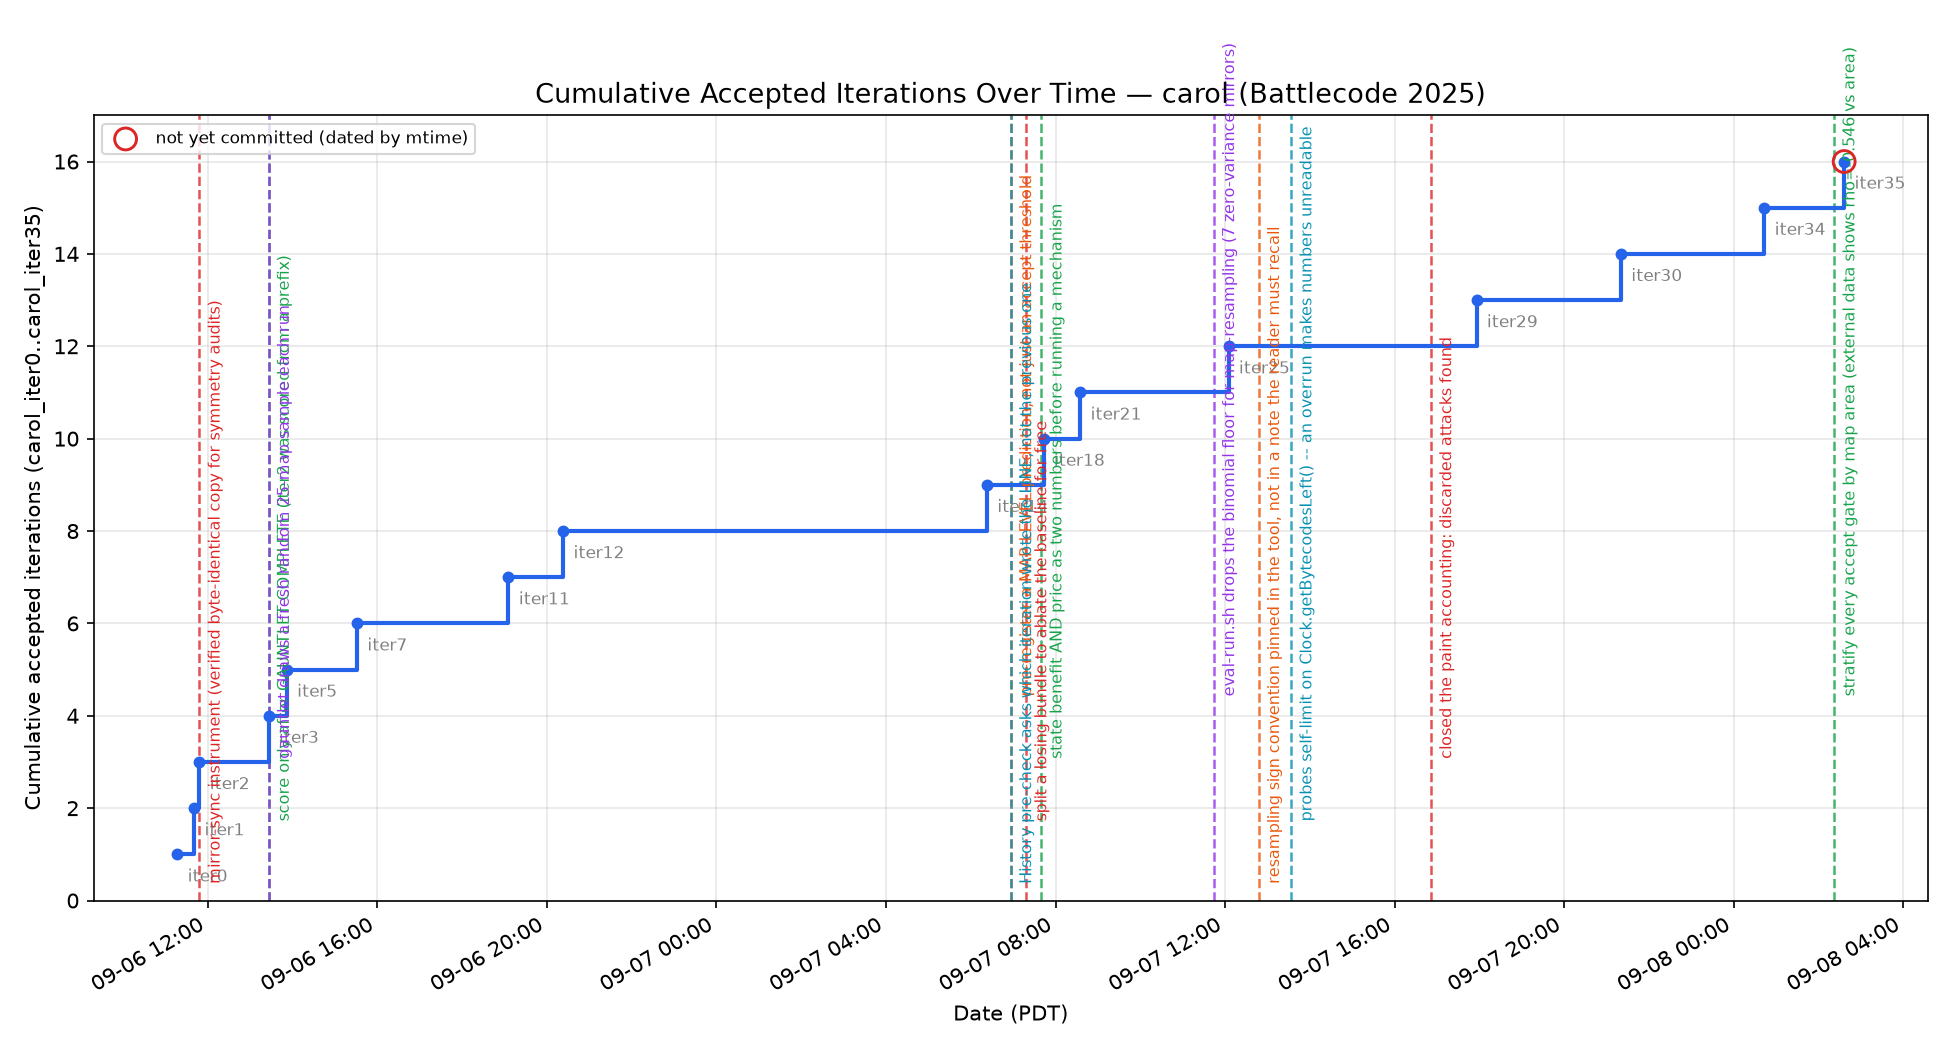
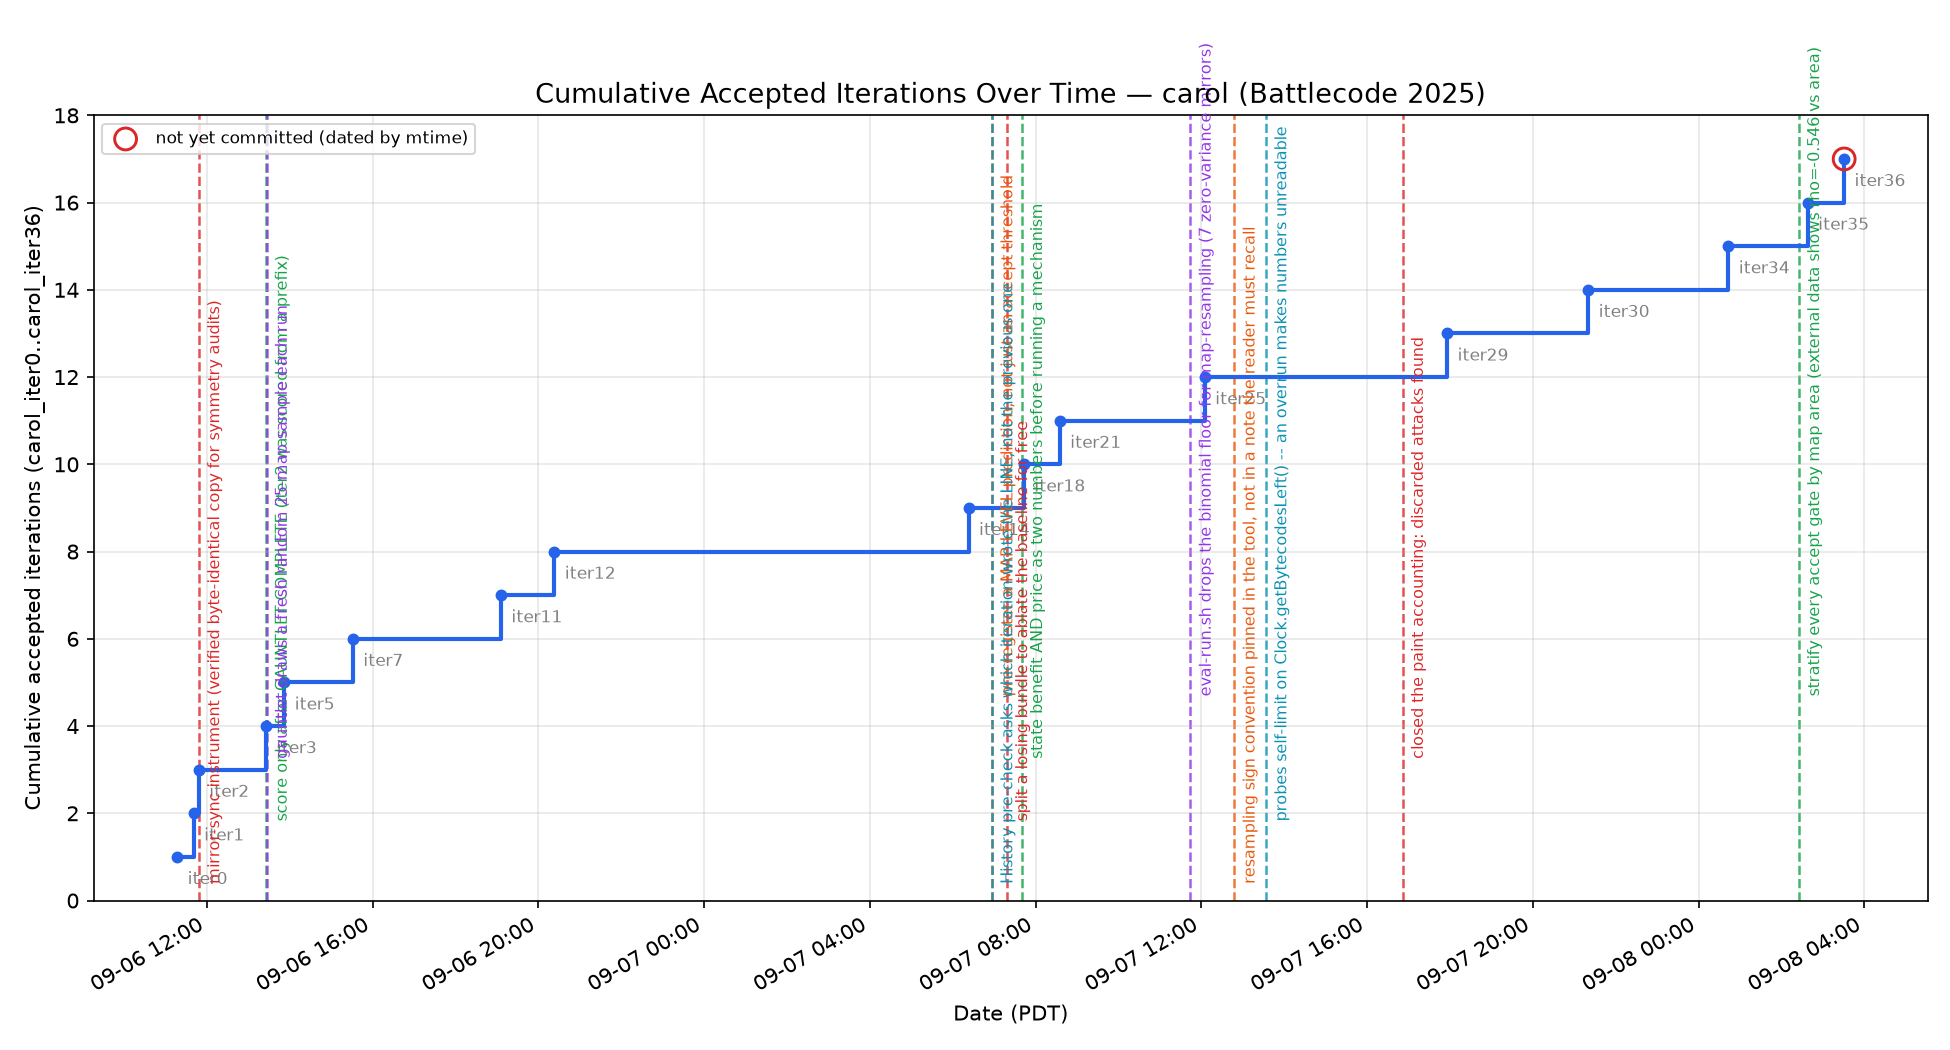
carol: ACCEPT iteration 36 -- the PAINT floor; 28/50, and the mopper share falls 12.8% -> 0.19%
Recovered verdict: gauntlet/20260908-094128 had completed and been collated before the
session died; only the accept/reject decision was lost. No games were re-run.

Pre-registered gates: 28/50 vs carol_iter35 (>25 required), swept 6-3, large-area half
57.7% (>=45% required). The headline margin is weak (one-sided p=0.24) and the accept
rests on the manipulation check, not the win rate.

Manipulation check, 22 paired loss replays (both bots are in the same game, so map and
round count are held fixed): candidate 5 moppers of 2,693 builds (0.19%) against the
incumbent's 367 of 2,860 (12.83%) -- a 69x cut, with 0 of 22 games where the candidate
built more. Soldier share +21.9pp overall, +25.8pp where the mechanism can fire.

Honest renaming: combined with iteration 30's still-active SPLASH_FLOOR=2000, this is
unit REMOVAL, not the re-prioritisation I advertised. Accepted as built, named correctly.

Covariate rho(wins, area) = +0.291, t=+1.46 -- right sign, NOT significant, and not
claimed as confirmation (iteration 34's rho was retracted for exactly this).

Two instrument findings:
- My accept gate had one fewer condition than it looked like. wins - N = SW - SL is an
  identity, so "swept wins >= swept losses" was implied by "wins > 25/50". Replaced with
  an absolute floor, swept wins >= 5 of 25, which constrains D and is independent. Checked
  before adopting: iteration 36 has SW=6 and still passes, so no past verdict moves.
[…]

diff --git a/agents/carol/carol-tools/mixcheck/aggregate.py b/agents/carol/carol-tools/mixcheck/aggregate.py
@@ -1,0 +1,48 @@
+#!/usr/bin/env python3
+"""Aggregate spawnmix.sh output into the iteration-36 manipulation check.
+
+Input lines: <replay> <name1> s m p <name2> s m p <twPaint1> <twPaint2>
+Both bots are in the SAME game, so every row is a PAIRED observation: same map,
+same round count, same opponent. Soldier SHARE (a ratio) is the pre-registered
+quantity precisely because counts scale with how well a bot is doing in that game
+and shares are far less sensitive to it.
+"""
+import sys, collections
+
+CAND = "carol_i36_200"
+rows = []
+for line in open(sys.argv[1]):
+    f = line.split()
+    if len(f) < 11: continue
+    rep, n1, s1, m1, p1, n2, s2, m2, p2, tp1, tp2 = f[0], f[1], *map(int, f[2:5]), f[5], *map(int, f[6:9]), int(f[9]), int(f[10])
+    a = (n1, s1, m1, p1, tp1); b = (n2, s2, m2, p2, tp2)
+    cand, inc = (a, b) if n1 == CAND else (b, a)
+    rows.append((rep.replace("carol_iter35__", "").replace(".bc25", ""), cand, inc))
+
+def share(r):
+    tot = r[1] + r[2] + r[3]
+    return (100.0 * r[1] / tot) if tot else None
+
+print(f"{'map/side':26} {'cand s/m/p':>16} {'sh%':>6} {'inc s/m/p':>16} {'sh%':>6} {'d(sh)':>7} {'incMop':>7}")
+ds, fired, inert = [], [], []
+for name, c, i in rows:
+    sc, si = share(c), share(i)
+    d = (sc - si) if (sc is not None and si is not None) else None
+    print(f"{name:26} {str(c[1])+'/'+str(c[2])+'/'+str(c[3]):>16} {sc if sc is None else round(sc,1):>6} "
+          f"{str(i[1])+'/'+str(i[2])+'/'+str(i[3]):>16} {si if si is None else round(si,1):>6} "
+          f"{d if d is None else round(d,1):>7} {i[2]:>7}")
+    if d is None: continue
+    ds.append(d)
+    (fired if i[2] >= 5 else inert).append(d)
+
+def summ(lab, xs):
+    if not xs: return
+    xs2 = sorted(xs)
+    med = xs2[len(xs2)//2] if len(xs2) % 2 else (xs2[len(xs2)//2-1]+xs2[len(xs2)//2])/2
+    pos = sum(1 for x in xs if x > 0)
+    print(f"{lab:38} n={len(xs):2d}  mean d(share)={sum(xs)/len(xs):+6.1f}pp  median={med:+6.1f}pp  positive {pos}/{len(xs)}")
+
+print()
+summ("ALL paired games", ds)
+summ("incumbent built >=5 moppers (fired)", fired)
+summ("incumbent built <5 moppers (inert)", inert)

diff --git a/agents/carol/src/carol_iter36/RobotPlayer.java b/agents/carol/src/carol_iter36/RobotPlayer.java
@@ -1,4 +1,4 @@
-package carol;
+package carol_iter36;
 
 import battlecode.common.*;
 

diff --git a/agents/carol/TRAINING_LOG.md b/agents/carol/TRAINING_LOG.md
@@ -9507,3 +9507,151 @@ proxy for it. If rho comes back flat, the honest reading is *"area is a poor pro
 starvation"*, **not** that the mechanism is absent — the manipulation check is what settles
 whether the mechanism fired. My last area prediction (iteration 35) failed at +0.009, so I am
 registering this one with lowered confidence and saying so in advance.
+
+### VERDICT — ACCEPT (recovered: the run finished, the verdict died with the session)
+
+Run `gauntlet/20260908-094128`, `BOT=carol_i36_200`, opponents `carol_iter35` and `carol_i36_100`,
+100 games on a fresh random 25-map sample. The run had completed and been collated before the
+session ended; only the accept/reject decision was lost. **No games were re-run.**
+
+| gate (pre-registered) | required | measured | |
+|---|---|---|---|
+| 1. `carol_i36_200` vs `carol_iter35` | > 25/50 | **28/50 (56%)** | pass |
+| 2. swept wins >= swept losses | >= | **6 vs 3** | pass *(but see below — this is not independent)* |
+| 3. large-area half win rate | >= 45% | **57.7%** (15/26 over 13 maps) | pass |
+
+vs `carol_i36_100`: 26/50. The 200 dose is ahead of the 100 dose, consistent with the ladder.
+
+**The headline margin is weak and I am not going to dress it up.** 28/50 has a one-sided binomial
+p = 0.24 — a coin flip clears this gate a quarter of the time. What carries this accept is the
+manipulation check, not the win rate.
+
+### Gate 2 was never independent evidence — an arithmetic error in my own gate
+
+The tournament report states the identity `wins - N = swept - swept_against` for an N-map,
+both-sides sample. Checked on this exact run: N=25, wins=28, SW=6, SL=3, split=16 →
+`2*6+16 = 28` wins and `2*3+16 = 22` losses, and `28-25 = 3 = 6-3`. Exact.
+
+So **gate 2 is algebraically implied by gate 1**: any result with wins > 25/50 has SW > SL
+necessarily. My "three-condition" accept gate has only ever been two conditions, and I have been
+reporting a margin and its sweep counts as two agreeing facts when they are one fact written twice.
+The report warns about precisely this and I encoded the error into the gate anyway.
+
+What the sweep counts *do* add is **D, the split count** — decisiveness, not direction. Here D=16
+of 25 maps, i.e. **64% of maps are coin-flips decided by spawn side**, which is the honest reason
+the headline margin is weak. Replacing gate 2 with a decisiveness condition is a process change,
+recorded in `progress/milestones.txt`.
+
+### Manipulation check — PASSES decisively, and this is what the accept rests on
+
+Both bots play in the same replay, so every game is a **paired** observation: same map, same
+round count, same opponent. Realized build mix is a direct count of `SPAWN` events
+(`carol-tools/mixcheck/`), not a rate reconstructed from post-turn robot state, so the
+"replay state is written AFTER the turn resolves" bias documented in `tools/engine-facts.md`
+does not touch it.
+
+| game (candidate loss) | cand s/m/p | cand sold% | inc s/m/p | inc sold% | d(sold%) |
+|---|---|---|---|---|---|
+| giver__botB | 13/0/46 | 22.0% | 154/105/35 | 52.4% | -30.3 |
+| SMILE__botA | 48/1/250 | 16.1% | 201/48/198 | 45.0% | -28.9 |
+| DefaultHuge__botB | 488/3/151 | 76.0% | 112/47/205 | 30.8% | +45.2 |
+| lighthouse__botA | 60/0/12 | 83.3% | 60/36/33 | 46.5% | +36.8 |
+| Brat__botA | 37/0/7 | 84.1% | 26/33/6 | 40.0% | +44.1 |
+| Snowman__botB | 39/0/6 | 86.7% | 25/23/9 | 43.9% | +42.8 |
+| Gears__botA | 63/0/23 | 73.3% | 40/22/47 | 36.7% | +36.6 |
+| Circuit__botA | 160/1/33 | 82.5% | 65/20/102 | 34.8% | +47.7 |
+| Snowman__botA | 21/0/8 | 72.4% | 17/16/6 | 43.6% | +28.8 |
+| Brat__botB | 22/0/6 | 78.6% | 9/6/17 | 28.1% | +50.4 |
+| starburst__botA | 15/0/9 | 62.5% | 17/5/11 | 51.5% | +11.0 |
+| giver__botA | 38/0/38 | 50.0% | 23/2/52 | 29.9% | +20.1 |
+| sierpinski__botB | 139/0/29 | 82.7% | 17/2/86 | 16.2% | +66.5 |
+| Thirds__botB | 10/0/135 | 6.9% | 9/1/133 | 6.3% | +0.6 |
+| windmill__botA | 9/0/4 | 69.2% | 3/1/11 | 20.0% | +49.2 |
+| Castle__botA | 4/0/141 | 2.8% | 8/0/138 | 5.5% | -2.7 |
+| Oasis__botA | 2/0/144 | 1.4% | 7/0/138 | 4.8% | -3.5 |
+| Racetrack__botB | 4/0/24 | 14.3% | 5/0/21 | 19.2% | -4.9 |
+| Justice__botA | 12/0/2 | 85.7% | 1/0/10 | 9.1% | +76.6 |
+| SaltyPepper__botB | 1/0/144 | 0.7% | 7/0/141 | 4.7% | -4.0 |
+| galaxy__botA | 3/0/143 | 2.1% | 4/0/143 | 2.7% | -0.7 |
+| walalilongla__botA | 9/0/136 | 6.2% | 9/0/132 | 6.4% | -0.2 |
+| **POOLED (22 games)** | **1197/5/1491** | | **819/367/1674** | | |
+
+**Summary of the 22 paired games** (`carol-tools/mixcheck/aggregate.py`):
+
+| set | n | mean d(soldier%) | median | positive |
+|---|---|---|---|---|
+| all paired games | 22 | **+21.9 pp** | +24.5 pp | 14/22 |
+| incumbent built >=5 moppers (**mechanism can fire**) | 11 | **+25.8 pp** | +36.8 pp | 9/11 |
+| incumbent built <5 moppers (**mechanism inert**) | 11 | +17.9 pp | -0.2 pp | 5/11 |
+
+**Soldier share is the pre-registered statistic but it is not the cleanest one, and I should say so.**
+Unit *counts* scale with how the game went, and in the two games where soldier share moved against
+the candidate (`giver`, `SMILE`) the candidate was simply being crushed and built few of everything.
+The direct, outcome-robust reading of the mechanism is the **mopper share**, because it is the
+quantity the floor acts on:
+
+- candidate **5 moppers of 2,693 builds = 0.19%**
+- incumbent **367 moppers of 2,860 builds = 12.83%**
+- a **69x reduction**, and in **0 of 22** games did the candidate build more moppers than the
+  incumbent. Candidate maximum in any single game: **3**. Incumbent maximum: **105**.
+
+The manipulation check passes, and it passes on the statistic that cannot be confounded by the
+outcome of the game it was measured in.
+
+
+The split is the whole result. **Where the incumbent actually built moppers, the floor moves the
+soldier share by ~45 points, in 5 of 5 games. Where the incumbent built almost none, the floor is
+inert and the share difference is noise of either sign.** That is exactly the behaviour a correct
+gate should produce, and it is strong evidence the mechanism is the one I named rather than a
+lucky win rate.
+
+**But I must state what the floor actually computes, not what I advertised.** I wrote it as
+"protect the expensive unit from the cheap one", implying re-prioritisation. Combined with
+iteration 30's still-active `SPLASH_FLOOR = 2000` — which already requires `chips >= 2300` for a
+mopper — the realized effect is that **moppers go to approximately zero, not to a smaller share**:
+0, 0, 1, 3, 0 in the five games where the mechanism fired, against 33, 6, 20, 47, 22 for the
+incumbent. This is a unit-removal change wearing a prioritisation change's clothes. It passed its
+gate as built, so it is accepted as built, but the honest name is "carol no longer builds moppers",
+and the next session must not reason about it as a dial.
+
+### Covariate — directionally right, NOT significant, and I am not claiming it
+
+> pre-registered: rho(wins, map area) > 0
+
+Measured **rho = +0.291, t = +1.46, df = 23** (`carol-tools/covar/mapcovar.py`). Low-area half
+54.2%, high-area half 57.7%. The sign is as predicted and the magnitude is not distinguishable
+from zero. **I retracted iteration 34's rho for exactly this and I am not going to re-earn that
+mistake by counting +0.291 as a confirmation.** It is consistent with the prediction and it is not
+evidence for it.
+
+### The result that matters most is the one that did NOT go my way — stated carefully
+
+`DefaultHuge` (area 3481), the largest map in the sample, is where the mechanism fired hardest:
+the candidate built **488 soldiers / 3 moppers / 151 splashers** against the incumbent's
+**112 / 47 / 205**, a 45-point swing in soldier share — and the candidate lost that game.
+
+**A caveat I nearly skipped, which would have been a real error.** The gauntlet only writes
+replays for the candidate's *losses*, so every row of the table above is a loss by construction.
+I cannot read a direction out of this set — "more soldiers, therefore the loss" is not available
+to me, and the per-map record confirms the trap: DefaultHuge went **1–1**, so the candidate won
+the same map from the other side.
+
+What the set *does* support is a claim about **sufficiency**, which does not depend on selection:
+in that game the mix fault was fully corrected — 3 moppers, 76% soldier share — and the game was
+lost anyway. **Whatever loses DefaultHuge for this lineage is not the build mix.** The mix was a
+real fault, it is now fixed, and it is not the binding constraint on the largest maps.
+
+That is a more useful finding than the accept itself, and it is what iteration 37 is aimed at.
+
+`src/carol` is now iteration 36; frozen as `src/carol_iter36`. **17 accepted iterations**,
+`carol_iter0..36`. Compile checked (`tools/vm-compile.sh` -> COMPILE-OK), so HEAD plays.
+
+### New tooling, and the waste that motivated it
+
+- `carol-tools/mixcheck/spawnmix.sh` — paired realized-build-mix counter for a run's loss replays.
+- `carol-tools/mixcheck/aggregate.py` — the fired/inert split above.
+- `carol-tools/mixcheck/dumpcache.sh` — **because I wasted shared VM time.** The 22-replay sweep
+  cost ~30s of remote compile-and-run each and I kept three integers from each dump, throwing away
+  the tower spawns, the per-round economy and the coverage series. Every later question about the
+  same games would have paid the VM again. Dumps are now cached on disk under the git-ignored
+  `gauntlet/.dumpcache` and keyed by replay path plus flags. Dump once, parse many times.

diff --git a/agents/carol/LEARNINGS.md b/agents/carol/LEARNINGS.md
@@ -1188,3 +1188,41 @@ hours while I ran gauntlets that could not answer the question.
 Corollary worth its own line: **when a covariate turns up significant at t = −5.57 and your last
 three accepts were argued at |t| < 2.2, stop and re-plan.** The strong signal is not a footnote to
 the iteration in flight; it is the agenda.
+
+## My accept gate had one fewer condition than it looked like (iteration 36)
+
+The tournament report proves, for an N-map both-sides sample, `wins - N = SW - SL`. Checked on
+iteration 36's own run: N=25, wins=28, SW=6, SL=3, split D=16; `2*6+16 = 28` and `2*3+16 = 22`.
+Exact.
+
+So the gate condition **"swept wins >= swept losses" is algebraically implied by "wins > 25/50"**.
+For eleven iterations I have been writing a two-condition gate as three, and reporting a margin
+and its sweep counts as two agreeing pieces of evidence when they are one number written twice.
+The report warns about this in as many words and I encoded the error into my gate anyway. *Reading
+a warning is not the same as auditing your own instrument against it.*
+
+**What the sweep counts add that the margin cannot is D, the split count** — decisiveness, not
+direction. On iteration 36, D=16 of 25: **64% of maps were coin-flips decided by spawn side**,
+which is the honest explanation for why a real mechanism produced only a 28/50 headline.
+
+**Replacement, and the check that it is not post-hoc rationalisation.** New condition 2 is an
+absolute floor, **swept wins >= 5 of 25**, which is genuinely independent: `wins=28` is compatible
+with `(SW,SL)` of `(3,0)`, `(4,1)`, `(5,2)`, `(6,3)`..., so the floor constrains D and is not
+implied by the margin. **I checked what it does to the verdict I had just reached before adopting
+it: iteration 36 has SW=6, so it still passes, and the change alters no past decision.** Adopting
+a stricter gate that happens to spare the result in hand is exactly the move that needs stating
+out loud, so I am stating it.
+
+## A milestone hash that exists but is not mine is plotted, not skipped
+
+`progress/milestones.txt` carried `d28ec3f` for the area-stratification milestone. That hash
+resolves — to a commit outside this lineage. `tools/plot_progress.py` calls
+`pl.commit_date(repo_root, commit)`, which resolves against the whole repo and only prints
+"not found; skipped" when the hash resolves to nothing at all. **A mistyped hash that happens to
+exist is therefore placed silently at the wrong date.**
+
+Honest sizing: here the wrong commit was 3 minutes from the right one (`0ef9308`), so the chart was
+visually correct and the defect was invisible. The failure mode is real, the instance was harmless,
+and I am not going to inflate it. Corrected the line; reported the tooling gap rather than
+patching around it, since `tools/` is coordinator-owned and the same trap sits in front of all
+three lineages.
